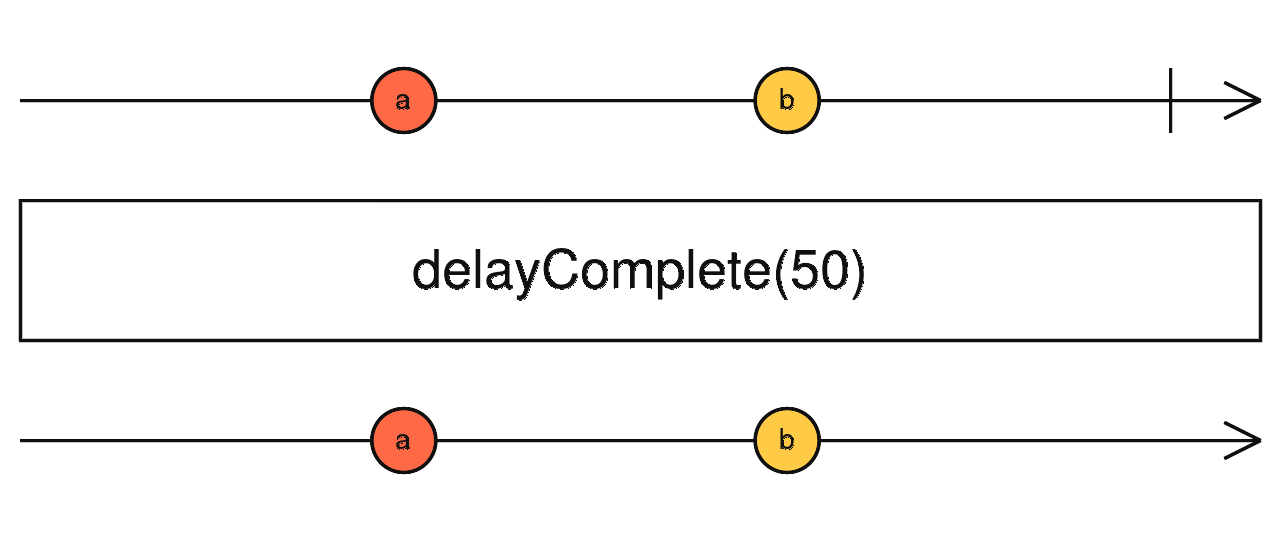
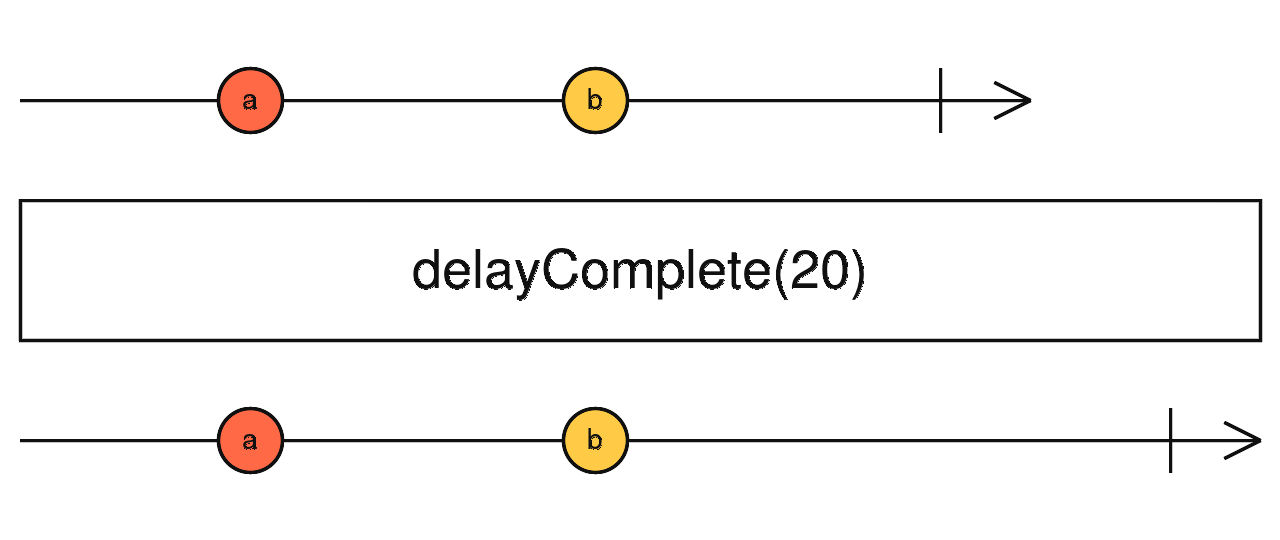
add presetTimer

diff --git a/spec/operator/presetTimer-spec.ts b/spec/operator/presetTimer-spec.ts
@@ -1,0 +1,41 @@
+import { expect } from 'chai';
+import { TestScheduler } from 'rxjs/testing';
+
+import { hot, cold, time, expectObservable } from '../marble-testing';
+import { presetTimer } from "../../src";
+
+declare function asDiagram(arg: string): Function;
+declare const rxTestScheduler: TestScheduler;
+
+describe('presetTimer', () => {
+  asDiagram('presetTimer([10, 40, 20, 30])')('should make different delays based on its params', () => {
+    const expected = '-a---b-c--(d|)';
+    const values = { a: 0, b: 1, c: 2, d: 3 };
+    const source = presetTimer([10, 40, 20, 30], rxTestScheduler);
+
+    expectObservable(source).toBe(expected, values);
+  });
+
+  it('should emit immediately with 0 delay', () => {
+    const expected = '(a|)';
+    const values = { a: 0 };
+    const source = presetTimer([0], rxTestScheduler);
+
+    expectObservable(source).toBe(expected, values);
+  });
+
+  it('should asynchronously emit values scheduled at the same time', () => {
+    const expected = 'a(bcd|)';
+    const values = { a: 0, b: 1, c: 2, d: 3 };
+    const source = presetTimer([0, 10, 0, 0], rxTestScheduler);
+
+    expectObservable(source).toBe(expected, values);
+  });
+
+  it('should complete immediately with empty array', () => {
+    const expected = '|';
+    const source = presetTimer([], rxTestScheduler);
+
+    expectObservable(source).toBe(expected);
+  });
+});

diff --git a/spec/observable/presetTimer.ts b/spec/observable/presetTimer.ts
@@ -1,0 +1,30 @@
+import { expect } from 'chai';
+import { of, defer } from 'rxjs';
+import { finalize } from 'rxjs/operators';
+import { TestScheduler } from 'rxjs/testing';
+
+import { hot, cold, expectObservable, expectSubscriptions } from '../marble-testing';
+import { FinalizeReason, tapSubscribe } from "../../src/operators";
+
+declare function asDiagram(arg: string): Function;
+declare const rxTestScheduler: TestScheduler;
+
+describe.only('presetTimer', () => {
+  it('should invoke handler when a new observer subscribes', () => {
+    const e1 =  cold('---a--b--c-|');
+    const e1subs =   '^          !';
+    const expected = '---a--b--c-|';
+
+    let called = false;
+    const source = e1.pipe(
+      tapSubscribe(() => called = true),
+    );
+
+    expectObservable(source).toBe(expected);
+    expectSubscriptions(e1.subscriptions).toBe(e1subs);
+
+    rxTestScheduler.flush();
+
+    expect(called).to.be.true;
+  });
+});

diff --git a/spec/operator/tabSubscribe-spec.ts b/spec/operator/tabSubscribe-spec.ts
@@ -6,10 +6,9 @@ import { TestScheduler } from 'rxjs/testing';
 import { hot, cold, expectObservable, expectSubscriptions } from '../marble-testing';
 import { FinalizeReason, tapSubscribe } from "../../src/operators";
 
-declare function asDiagram(arg: string): Function;
 declare const rxTestScheduler: TestScheduler;
 
-describe.only('tapSubscribe', () => {
+describe('tapSubscribe', () => {
   it('should invoke handler when a new observer subscribes', () => {
     const e1 =  cold('---a--b--c-|');
     const e1subs =   '^          !';
@@ -71,7 +70,6 @@ describe.only('tapSubscribe', () => {
     const e1 = hot('---a--b--c--');
 
     let calls = 0;
-
     const source = e1.pipe(
       tapSubscribe(() => calls++),
     );
@@ -81,6 +79,4 @@ describe.only('tapSubscribe', () => {
 
     expect(calls).to.be.equal(2);
   });
-
-
 });

diff --git a/spec/operator/delayComplete-spec.ts b/spec/operator/delayComplete-spec.ts
@@ -7,11 +7,11 @@ import { delayComplete } from '../../src/operators';
 declare function asDiagram(arg: string): Function;
 declare const rxTestScheduler: TestScheduler;
 
-describe.only('delayComplete', () => {
-  asDiagram('delayComplete(50)')('should delay the complete notification', () => {
-    const e1 =  cold('---a--b--|');
-    const e1subs =   '^        !';
-    const expected = '---a--b----|';
+describe('delayComplete', () => {
+  asDiagram('delayComplete(20)')('should delay the complete notification', () => {
+    const e1 =  cold('--a--b--|  ');
+    const e1subs =   '^       !  ';
+    const expected = '--a--b----|';
     const t =   time('--|');
 
     const source = e1.pipe(

diff --git a/src/observable/presetTimer.ts b/src/observable/presetTimer.ts
@@ -1,0 +1,9 @@
+import { Observable, SchedulerLike, range, of, asyncScheduler } from 'rxjs';
+import { delay, concatMap } from 'rxjs/operators';
+
+export const presetTimer = (delays: number[], scheduler: SchedulerLike = asyncScheduler): Observable<number> =>
+  range(delays.length).pipe(
+    concatMap(index => of(index).pipe(
+      delay(delays[index], scheduler),
+    )),
+  );

diff --git a/spec/operator/finalizeWithReason-spec.ts b/spec/operator/finalizeWithReason-spec.ts
@@ -12,7 +12,7 @@ describe('finalizeWithReason', () => {
   it('should recognise that the chain disposed because observer unsubscribed', () => {
     const e1 =  cold('---a--b--c-|');
     const e1subs =   '^       !';
-    const expected = '---a--b-|';
+    const expected = '---a--b--';
     const unsub =    '        !';
 
     let reason: FinalizeReason;

diff --git a/src/index.ts b/src/index.ts
@@ -1,0 +1,1 @@
+export * from './observable/presetTimer';
